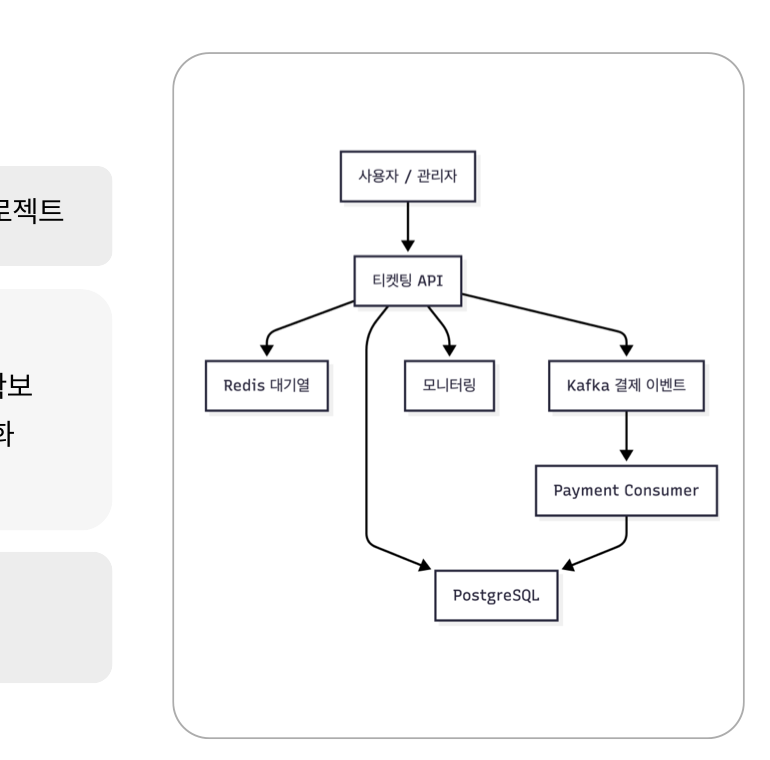
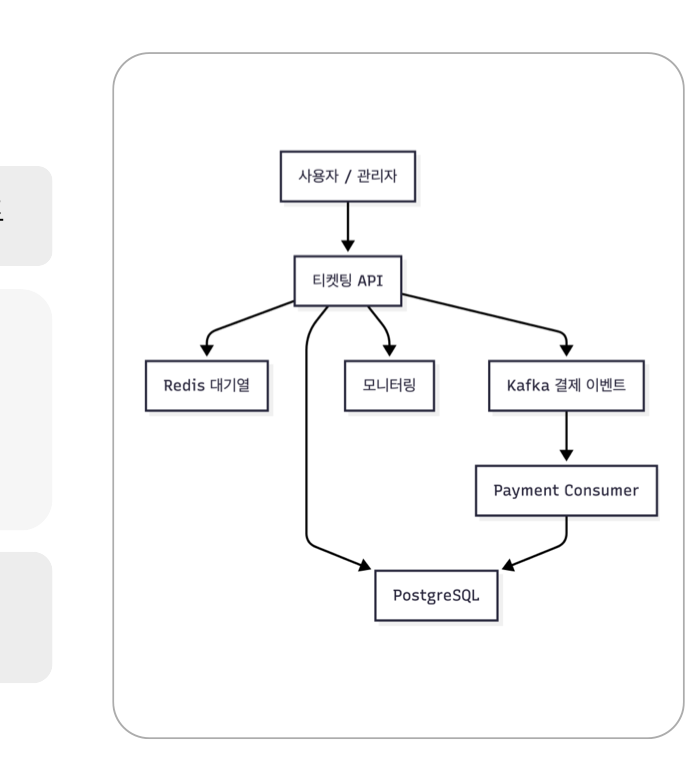
Adjust PDF image ratios

diff --git a/index.html b/index.html
@@ -131,7 +131,7 @@
               </div>
             </dl>
 
-            <figure class="visual-card">
+            <figure class="visual-card visual-card-arch">
               <img
                 src="./assets/portfolio/shopping-arch-pdf.png"
                 alt="쇼핑몰 API 서버 아키텍처 이미지"
@@ -351,7 +351,7 @@
               </div>
             </dl>
 
-            <figure class="visual-card">
+            <figure class="visual-card visual-card-arch">
               <img
                 src="./assets/portfolio/ticketing-arch-pdf.png"
                 alt="티켓팅 서버 아키텍처 이미지"

diff --git a/styles.css b/styles.css
@@ -381,12 +381,37 @@ a {
   background: #fff;
 }
 
+.visual-card-arch {
+  display: grid;
+  justify-items: center;
+}
+
 .visual-card img,
 .chart-card img,
 .dashboard-card img {
   width: 100%;
   border-radius: 18px;
   border: 1px solid rgba(74, 99, 213, 0.08);
+}
+
+.visual-card-arch img {
+  width: auto;
+  max-width: 100%;
+  max-height: 620px;
+  margin: 0 auto;
+  object-fit: contain;
+}
+
+.pdf-crop-card {
+  padding: 14px;
+}
+
+.pdf-crop-card img {
+  display: block;
+  width: auto;
+  max-width: 100%;
+  margin: 0 auto;
+  object-fit: contain;
 }
 
 .visual-card figcaption {
